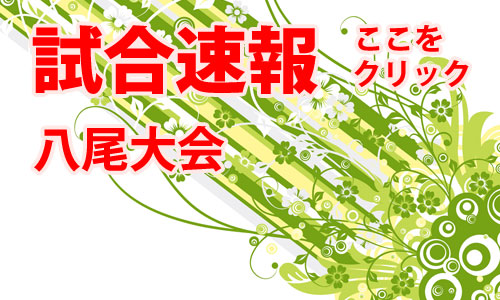
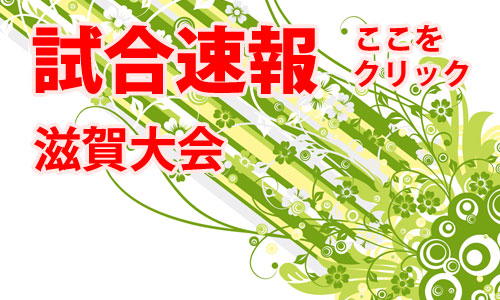
滋賀大会の試合速報を追加

Changed region(s): [[0.06, 0.42, 0.27, 0.6]]

diff --git a/index.html b/index.html
@@ -58,18 +58,18 @@ $(document).ready(function(){
       <!-- 小スライド -->
       <ul class="ui-tabs-nav">
         <li class="ui-tabs-nav-item ui-tabs-selected" id="nav-fragment-1">
-          <a href="#fragment-1"><img src="images/201310_shiga_slide.jpg" width="106" height="66" /><span>大会要項<br />
+          <a href="#fragment-1"><img src="images/slide_flash_report.jpg" width="106" height="66" /><span>試合速報<br />
           滋賀大会</span></a>
         </li>
         <li class="ui-tabs-nav-item" id="nav-fragment-2">
-          <a href="#fragment-2"><img src="images/201312_kyouto_slide.jpg" width="106" height="66" /><span>大会要項<br />
-          京都大会</span></a>
+          <a href="#fragment-2"><img src="images/201310_shiga_slide.jpg" width="106" height="66" /><span>大会要項<br />
+          滋賀大会</span></a>
         </li>
-        <!--
         <li class="ui-tabs-nav-item" id="nav-fragment-3">
           <a href="#fragment-3"><img src="images/201312_kyouto_slide.jpg" width="106" height="66" /><span>大会要項<br />
           京都大会</span></a>
         </li>
+        <!--
         <li class="ui-tabs-nav-item" id="nav-fragment-4">
           <a href="#fragment-4"><img src="images/slide_flash_report.jpg" width="106" height="66" /><span>試合速報<br />
           八尾大会</span></a>
@@ -79,8 +79,18 @@ $(document).ready(function(){
       
       <!-- 大スライド -->
       <!-- First Content -->
-      <a href="html/summary/summary_201310_shiga.html">
+      <a href="https://www.dropbox.com/sh/clese16rodthme2/1j4tXnsvNi"  target="_blank">
       <div id="fragment-1" class="ui-tabs-panel" style="">
+        <img src="images/slide_flash_report.jpg"/>
+        <div class="info" >
+          <h2>試合速報</h2>
+          <p>リアルタイムで試合結果を確認できます</p>
+        </div>
+      </div>
+      </a>
+      <!-- Second Content -->
+      <a href="html/summary/summary_201310_shiga.html">
+      <div id="fragment-2" class="ui-tabs-panel" style="">
         <img src="images/201310_shiga_slide.jpg"/>
         <div class="info" >
           <h2>滋賀大会</h2>
@@ -88,29 +98,17 @@ $(document).ready(function(){
         </div>
       </div>
       </a>
-      <!-- Second Content -->
-      <!--<a href="nextCup_201312_kyouto.html">-->
-      <div id="fragment-2" class="ui-tabs-panel" style="">
-        <img src="images/201312_kyouto_slide.jpg"/>
-        <div class="info" >
-          <h2>京都大会</h2>
-          <p>トリムフリー、トリムエンジョイ（コート内１６０歳以上）の２カテゴリーで開催</p>
-          <p>申込みを終了しました</p>
-        </div>
-      </div>
-      <!--</a>-->
       <!-- Third Content -->
-      <!--
-      <a href="nextCup_201312_kyouto.html">
+      <!--<a href="nextCup_201312_kyouto.html">-->
       <div id="fragment-3" class="ui-tabs-panel" style="">
         <img src="images/201312_kyouto_slide.jpg"/>
         <div class="info" >
           <h2>京都大会</h2>
-          <p>トリムフリー、トリム２（コート内１６０歳以上）の２カテゴリーで開催</p>
+          <p>トリムフリー、トリムエンジョイ（コート内１６０歳以上）の２カテゴリーで開催</p>
+          <p>参加チーム募集は、定数になったため締め切りました</p>
         </div>
       </div>
-      </a>
-      -->
+      <!--</a>-->
       <!-- Fourth Content -->
       <!--
       <a href="https://www.dropbox.com/sh/wn124q5w1wl18zj/7KTE-v8fDV"  target="_blank">
@@ -151,6 +149,9 @@ $(document).ready(function(){
       <h2>最新のお知らせ</h2>
       <ul>
         <li id="newsFirst">
+          <a href="https://www.dropbox.com/sh/clese16rodthme2/1j4tXnsvNi" target="_blank">2013年10月26日：滋賀大会の試合速報を追加 <img src="images/newsArrow.jpg" width="13px" height="13px"/></a>
+        </li>
+        <li>
           <a href="html/summary/summary_201310_shiga.html">2013年10月26日：滋賀大会の大会要項を追加 <img src="images/newsArrow.jpg" width="13px" height="13px"/></a>
         </li>
         <li>
@@ -158,9 +159,6 @@ $(document).ready(function(){
         </li>
         <li>
           <a href="html/movie/movie_201309_hyougo.html">2013年10月14日：兵庫大会の動画を追加 <img src="images/newsArrow.jpg" width="13px" height="13px"/></a>
-        </li>
-        <li>
-          <a href="html/photo.html">2013年10月07日：兵庫大会の写真を追加 <img src="images/newsArrow.jpg" width="13px" height="13px"/></a>
         </li>
       </ul>
       <div id="newsBottom"></div>
